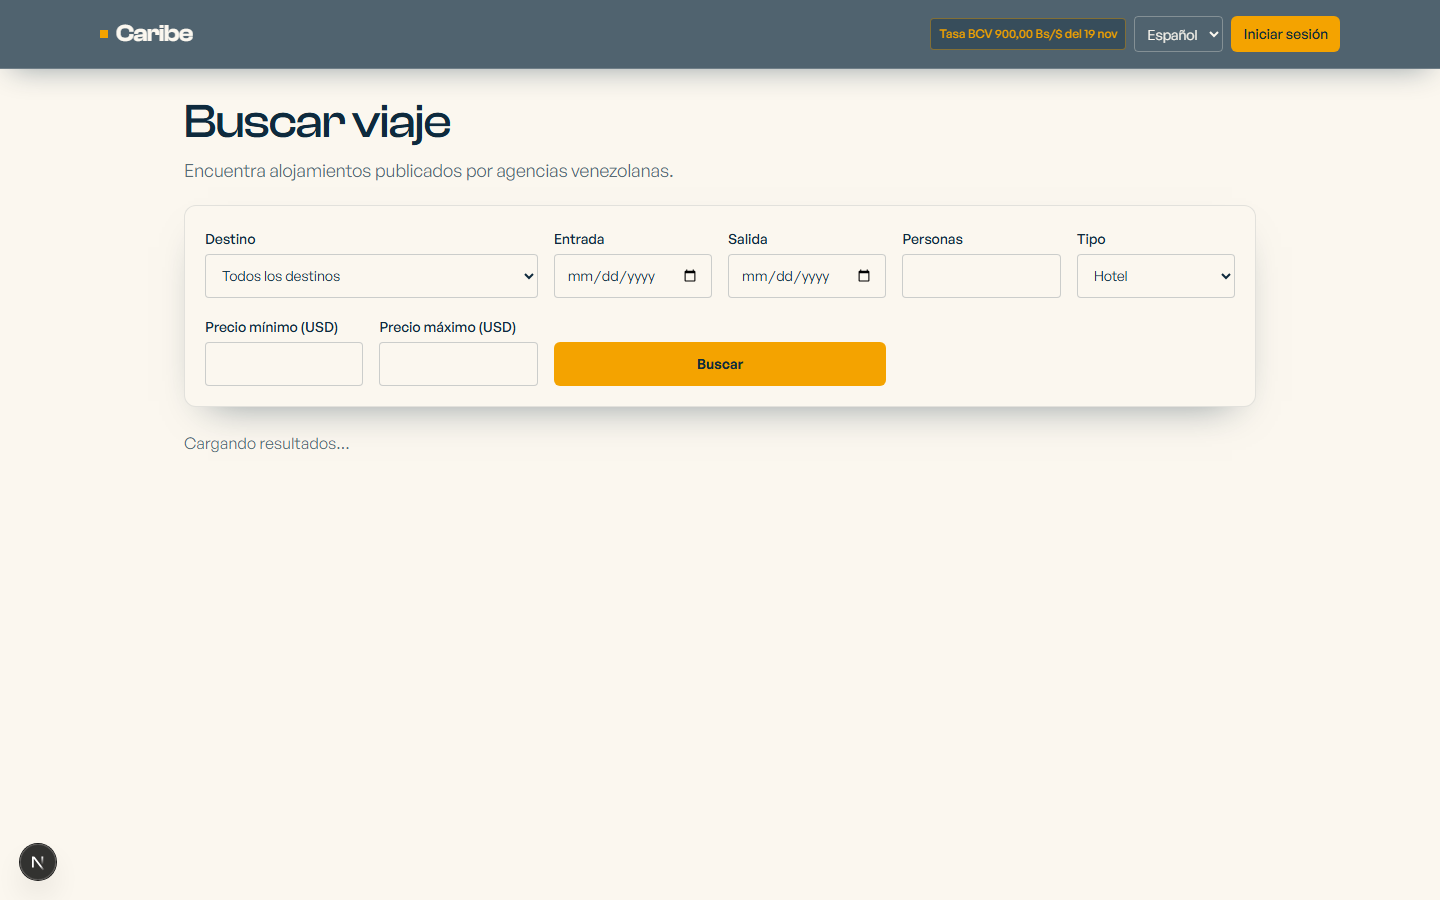
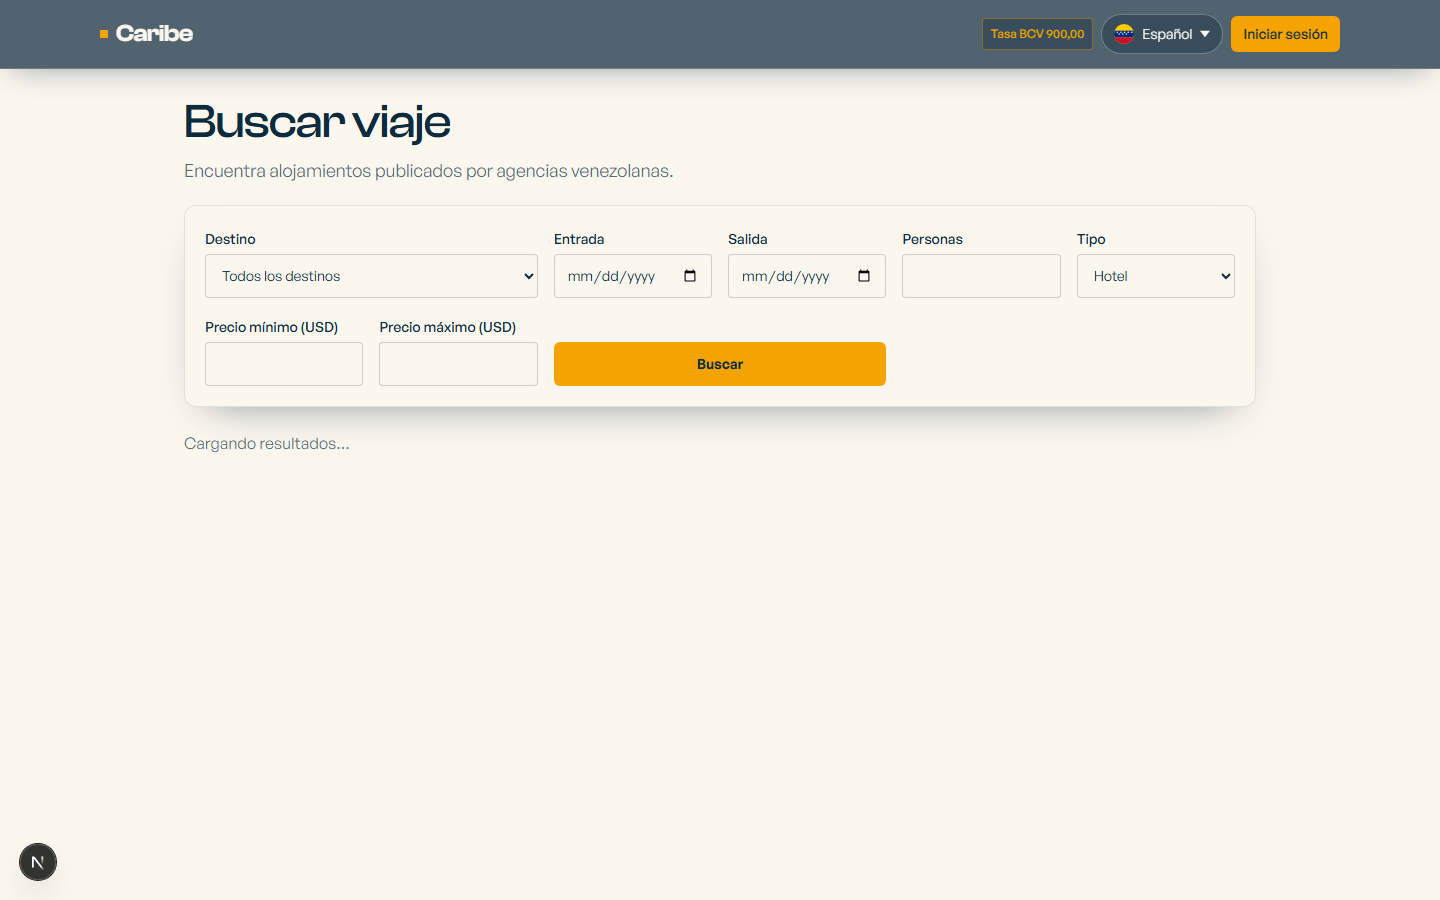
feat(web): usar un desplegable con banderas para el idioma
Sustituye la pildora por un combobox accesible con banderas SVG locales de Venezuela y Estados Unidos, etiquetas Español/English y activo con aria-current. El cambio conserva la ruta fija y sus parametros sin duplicar el prefijo.

Task: T-NAV-7

Changed region(s): [[0.625, 0.0, 0.9062, 0.0622]]

diff --git a/apps/web/src/components/language-switcher.tsx b/apps/web/src/components/language-switcher.tsx
@@ -1,42 +1,127 @@
 "use client";
 
+import { useEffect, useRef, useState, type KeyboardEvent } from "react";
 import { useLocale, useTranslations } from "next-intl";
-import { useParams } from "next/navigation";
-import { usePathname, useRouter } from "@/i18n/navigation";
+import { useParams, useRouter } from "next/navigation";
+import { usePathname } from "@/i18n/navigation";
 import type { Locale } from "@caribe/shared";
+import { languageSwitchHref, type LanguageRouteParams } from "@/lib/language-view";
 
-/** Selector de idioma es/en que conserva la ruta fija y sus parámetros. */
+const LANGUAGE_OPTIONS = [
+  { locale: "es", labelKey: "spanish", flag: "/images/flags/ve.svg" },
+  { locale: "en", labelKey: "english", flag: "/images/flags/us.svg" },
+] as const;
+
+const LIST_ID = "language-options";
+
+/**
+ * Selector de idioma desplegable con banderas locales. Conserva la ruta fija y
+ * sus parámetros; el cambio navega con el router estándar para no duplicar el
+ * prefijo que ya devuelve `languageSwitchHref`.
+ */
 export function LanguageSwitcher() {
   const t = useTranslations("nav");
   const locale = useLocale();
-  const router = useRouter();
   const pathname = usePathname();
-  const params = useParams<{ id?: string; productId?: string }>();
+  const params = useParams<LanguageRouteParams>();
+  const router = useRouter();
+  const [open, setOpen] = useState(false);
+  const root = useRef<HTMLDivElement>(null);
+  const trigger = useRef<HTMLButtonElement>(null);
+  const list = useRef<HTMLUListElement>(null);
 
-  function switchLanguage(next: Locale): void {
-    if (pathname === "/hotels/[id]") {
-      router.replace({ pathname, params: { id: String(params.id ?? "") } }, { locale: next });
+  const active =
+    LANGUAGE_OPTIONS.find((option) => option.locale === locale) ?? LANGUAGE_OPTIONS[0];
+
+  useEffect(() => {
+    if (!open) return;
+    list.current?.querySelector<HTMLElement>('[role="option"][aria-selected="true"]')?.focus();
+    const onPointerDown = (event: PointerEvent) => {
+      if (!root.current?.contains(event.target as Node)) setOpen(false);
+    };
+    document.addEventListener("pointerdown", onPointerDown);
+    return () => document.removeEventListener("pointerdown", onPointerDown);
+  }, [open]);
+
+  function choose(next: Locale): void {
+    setOpen(false);
+    trigger.current?.focus();
+    if (next !== locale) router.replace(languageSwitchHref(next, pathname, params));
+  }
+
+  function onListKeyDown(event: KeyboardEvent<HTMLUListElement>): void {
+    if (event.key === "Escape") {
+      setOpen(false);
+      trigger.current?.focus();
       return;
     }
-    if (pathname === "/checkout/[productId]") {
-      router.replace(
-        { pathname, params: { productId: String(params.productId ?? "") } },
-        { locale: next },
-      );
-      return;
-    }
-    router.replace(pathname, { locale: next });
+    if (event.key !== "ArrowDown" && event.key !== "ArrowUp") return;
+    event.preventDefault();
+    const options = Array.from(list.current?.querySelectorAll<HTMLElement>('[role="option"]') ?? []);
+    const current = options.indexOf(document.activeElement as HTMLElement);
+    const step = event.key === "ArrowDown" ? 1 : -1;
+    const next = options[(current + step + options.length) % options.length];
+    next?.focus();
   }
 
   return (
-    <select
-      aria-label={t("language")}
-      className="h-9 rounded border border-bone/30 bg-transparent px-2 text-sm text-bone focus-visible:outline-2 focus-visible:outline-offset-2 focus-visible:outline-amber"
-      value={locale}
-      onChange={(event) => switchLanguage(event.target.value as Locale)}
-    >
-      <option value="es">{t("spanish")}</option>
-      <option value="en">{t("english")}</option>
-    </select>
+    <div ref={root} className="relative">
+      <button
+        ref={trigger}
+        type="button"
+        role="combobox"
+        aria-label={t("language")}
+        aria-expanded={open}
+        aria-controls={LIST_ID}
+        aria-haspopup="listbox"
+        onClick={() => setOpen((value) => !value)}
+        onKeyDown={(event) => {
+          if (event.key === "ArrowDown") {
+            event.preventDefault();
+            setOpen(true);
+          }
+        }}
+        className="inline-flex h-10 items-center gap-2 rounded-full border border-bone/30 bg-ink/40 px-3 text-sm text-bone transition-colors duration-300 hover:bg-bone/10 focus-visible:outline-2 focus-visible:outline-offset-2 focus-visible:outline-amber"
+      >
+        <img src={active.flag} alt="" aria-hidden="true" className="size-5 rounded-full object-cover" />
+        <span>{t(active.labelKey)}</span>
+        <svg aria-hidden="true" viewBox="0 0 12 8" className="size-2.5 fill-current">
+          <path d="M6 8 0 0h12z" />
+        </svg>
+      </button>
+
+      {open ? (
+        <ul
+          ref={list}
+          id={LIST_ID}
+          role="listbox"
+          aria-label={t("language")}
+          onKeyDown={onListKeyDown}
+          className="absolute end-0 top-full z-50 mt-2 w-44 rounded-xl border border-bone/20 bg-ink p-1 shadow-brand"
+        >
+          {LANGUAGE_OPTIONS.map((option) => {
+            const selected = option.locale === locale;
+            return (
+              <li key={option.locale} role="none">
+                <button
+                  type="button"
+                  role="option"
+                  aria-selected={selected}
+                  aria-current={selected ? "true" : undefined}
+                  tabIndex={-1}
+                  onClick={() => choose(option.locale)}
+                  className={`flex w-full items-center gap-2 rounded-lg px-3 py-2 text-left text-sm transition-colors duration-200 focus-visible:outline-2 focus-visible:outline-offset-2 focus-visible:outline-amber ${
+                    selected ? "bg-bone font-semibold text-ink" : "text-bone hover:bg-bone/10"
+                  }`}
+                >
+                  <img src={option.flag} alt="" aria-hidden="true" className="size-5 rounded-full object-cover" />
+                  <span>{t(option.labelKey)}</span>
+                </button>
+              </li>
+            );
+          })}
+        </ul>
+      ) : null}
+    </div>
   );
 }

diff --git a/apps/web/src/lib/language-view.ts b/apps/web/src/lib/language-view.ts
@@ -1,0 +1,25 @@
+import type { Locale } from "@caribe/shared";
+import { isFixedRoute, localizedPath } from "@/lib/localized-path";
+
+/** Parámetros dinámicos del inventario de rutas públicas. */
+export type LanguageRouteParams = {
+  id?: string;
+  productId?: string;
+};
+
+/**
+ * URL del otro idioma para el selector de la cabecera. El nombre de la ruta no
+ * se traduce: solo cambia el prefijo. Los parámetros se conservan codificados
+ * para que el detalle y el checkout no vuelvan a la portada al cambiar de idioma.
+ */
+export function languageSwitchHref(
+  locale: Locale,
+  pathname: string,
+  params: LanguageRouteParams = {},
+): string {
+  const values: Record<string, string> = {};
+  if (params.id) values.id = params.id;
+  if (params.productId) values.productId = params.productId;
+  if (isFixedRoute(pathname)) return localizedPath(locale, pathname, values);
+  return `/${locale}${pathname}`;
+}

diff --git a/apps/web/test/language-view.test.ts b/apps/web/test/language-view.test.ts
@@ -1,0 +1,23 @@
+import { describe, expect, it } from "vitest";
+import { languageSwitchHref } from "../src/lib/language-view";
+
+describe("languageSwitchHref", () => {
+  it("cambia solo el prefijo en las rutas fijas", () => {
+    expect(languageSwitchHref("en", "/search")).toBe("/en/search");
+    expect(languageSwitchHref("es", "/account/trips")).toBe("/es/account/trips");
+    expect(languageSwitchHref("en", "/")).toBe("/en/");
+  });
+
+  it("conserva los parametros del detalle y del checkout", () => {
+    expect(languageSwitchHref("en", "/hotels/[id]", { id: "hotel-42" })).toBe(
+      "/en/hotels/hotel-42",
+    );
+    expect(languageSwitchHref("es", "/checkout/[productId]", { productId: "p 1" })).toBe(
+      "/es/checkout/p%201",
+    );
+  });
+
+  it("prefija rutas fuera del inventario sin perder el nombre", () => {
+    expect(languageSwitchHref("en", "/futura")).toBe("/en/futura");
+  });
+});

diff --git a/apps/web/src/lib/localized-path.ts b/apps/web/src/lib/localized-path.ts
@@ -1,7 +1,12 @@
 import type { Locale } from "@caribe/shared";
 import { routing } from "@/i18n/routing";
 
-type FixedRoute = keyof NonNullable<typeof routing.pathnames>;
+export type FixedRoute = keyof NonNullable<typeof routing.pathnames>;
+
+/** Comprueba que una ruta del router pertenece al inventario fijo. */
+export function isFixedRoute(pathname: string): pathname is FixedRoute {
+  return Object.prototype.hasOwnProperty.call(routing.pathnames ?? {}, pathname);
+}
 
 /**
  * Construye la URL de una ruta pública fija con el prefijo de idioma.

diff --git a/openspec/changes/f1-navigation-refresh/tasks.md b/openspec/changes/f1-navigation-refresh/tasks.md
@@ -21,7 +21,7 @@ Una tarea a la vez. Capturas de escritorio y móvil antes de cada commit en
   Prueba: escenario «Animación de entrada y al desplazarse» de `specs/web-ui/spec.md`; `verify:navigation` con movimiento permitido y reducido; capturas de inicio y destacados en escritorio y móvil; lint, typecheck y tests en verde.
 - [x] T-NAV-6 Simplificar el badge de la cabecera a `BCV` y monto; retirar claves i18n sin uso manteniendo paridad es/en y conservar la fecha valor en checkout y pagos.
   Prueba: escenarios «Badge de tasa compacto» de `specs/web-ui/spec.md`; capturas de cabecera en escritorio y móvil; lint, typecheck y tests en verde.
-- [ ] T-NAV-7 Sustituir el selector por un desplegable accesible con banderas VE/US en SVG local, etiquetas «Español»/«English» y activo con `aria-current`; conservar ruta y parámetros al cambiar de idioma.
+- [x] T-NAV-7 Sustituir el selector por un desplegable accesible con banderas VE/US en SVG local, etiquetas «Español»/«English» y activo con `aria-current`; conservar ruta y parámetros al cambiar de idioma.
   Prueba: escenarios «Selector de idioma con banderas» de `specs/web-ui/spec.md`; capturas de cabecera en escritorio y móvil; lint, typecheck y tests en verde.
 - [ ] T-NAV-14 Convertir la cabecera en una barra flotante centrada, semitransparente y con desenfoque, con logo a la izquierda, enlaces a productos (`/search` con filtro `type`), sesión, idioma y tasa BCV.
   Prueba: escenarios «Cabecera flotante» de `specs/web-ui/spec.md`; capturas de cabecera en escritorio y móvil; lint, typecheck y tests en verde.
